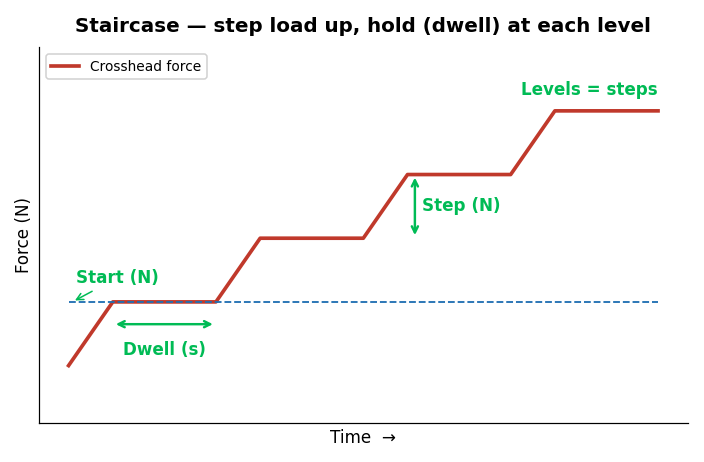
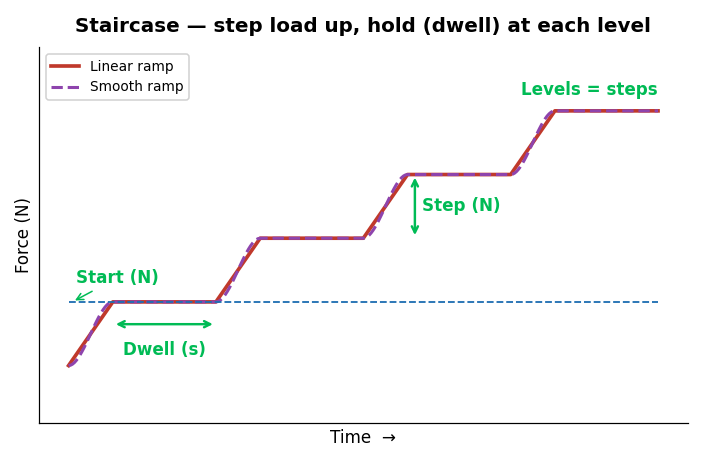
Staircase: add Linear/Smooth ramp-shape selector
StaircasePolicy gains ramp_shape='linear'|'smooth'; smooth eases speed by
load fraction toward each level (spd=speed*sin(pi*frac)) -> gentler arrival,
less overshoot. Sim-checked: smooth lands exactly on 200/400/600 N vs
linear's 202/405/608. Staircase help diagram overlays both ramps. UI
selector wiring is in the unversioned main.py.

diff --git a/Software/UTM_PyQt6/control_policies.py b/Software/UTM_PyQt6/control_policies.py
@@ -177,13 +177,29 @@ class StaircasePolicy(ControlPolicy):
     stress-relaxation at that step) before advancing. Automates the manual V4b/V4c staircases."""
     name = "staircase"
 
-    def __init__(self, levels: List[float], dwell_s: float, speed: float = 0.1):
+    def __init__(self, levels: List[float], dwell_s: float, speed: float = 0.1,
+                 ramp_shape: str = "linear"):
         self.levels = list(levels)
         self.dwell = dwell_s
         self.speed = speed
+        self.ramp_shape = ramp_shape
         self.i = 0
         self.holding = False
         self.hold_start = 0.0
+
+    def _ramp_speed(self, load: float) -> float:
+        """Constant speed for 'linear'; for 'smooth' ease to a crawl as the load nears the target
+        level (spd = speed·sin(π·frac) between the previous and target level) so each level is
+        approached gently — less overshoot past the target and a cleaner start-of-hold."""
+        if self.ramp_shape != "smooth":
+            return self.speed
+        target = self.levels[self.i]
+        prev = self.levels[self.i - 1] if self.i > 0 else 0.0
+        span = target - prev
+        if span <= 1e-6:
+            return self.speed
+        frac = min(1.0, max(0.0, (load - prev) / span))
+        return max(0.01, self.speed * math.sin(math.pi * frac))
 
     def step(self, s: Signals) -> Command:
         if self.i >= len(self.levels):
@@ -194,17 +210,18 @@ class StaircasePolicy(ControlPolicy):
                 self.holding = True
                 self.hold_start = s.t
                 return Command(0, "hold", message=f"hold level {self.i + 1} @ {target:.0f} N")
-            return Command(self.speed, "tension", message=f"ramp to level {self.i + 1} ({target:.0f} N)")
+            return Command(self._ramp_speed(s.load), "tension",
+                           message=f"ramp to level {self.i + 1} ({target:.0f} N)")
         if s.t - self.hold_start >= self.dwell:
             self.i += 1
             if self.i >= len(self.levels):
                 return Command(0, "hold", done=True, message="staircase complete")
             self.holding = False
-            return Command(self.speed, "tension", message=f"ramp to level {self.i + 1}")
+            return Command(self._ramp_speed(s.load), "tension", message=f"ramp to level {self.i + 1}")
         return Command(0, "hold", message=f"dwell {s.t - self.hold_start:.0f}/{self.dwell:.0f} s")
 
     def start_message(self) -> str:
-        return f"Staircase {self.levels} N, dwell {self.dwell:.0f} s"
+        return f"Staircase {self.ramp_shape} {self.levels} N, dwell {self.dwell:.0f} s"
 
 
 class RelaxationPolicy(ControlPolicy):

diff --git a/Software/UTM_PyQt6/generate_mode_help.py b/Software/UTM_PyQt6/generate_mode_help.py
@@ -78,7 +78,16 @@ def staircase():
         lvl = start + i * step
         x += ramp; xs.append(x); ys.append(lvl)      # ramp up
         x += dwell; xs.append(x); ys.append(lvl)      # dwell (flat)
-    ax.plot(xs, ys, color=RED, lw=2.4, label="Crosshead force")
+    ax.plot(xs, ys, color=RED, lw=2.4, label="Linear ramp")
+    # smooth (eased) ramp overlay: smoothstep between levels, flats unchanged
+    sx, sy = [], []
+    xx, prev = 0.0, 0.0
+    for i in range(nlev):
+        lvl = start + i * step
+        tt = np.linspace(0, 1, 24); ss = 3 * tt ** 2 - 2 * tt ** 3
+        sx += list(xx + tt * ramp); sy += list(prev + (lvl - prev) * ss); xx += ramp
+        sx += [xx, xx + dwell]; sy += [lvl, lvl]; xx += dwell; prev = lvl
+    ax.plot(sx, sy, color="#8e44ad", lw=2.0, ls="--", label="Smooth ramp")
     ax.legend(loc="upper left", fontsize=9, framealpha=0.9)
     # Start level
     _hline(ax, start, 0, xs[-1], "", BLUE)
